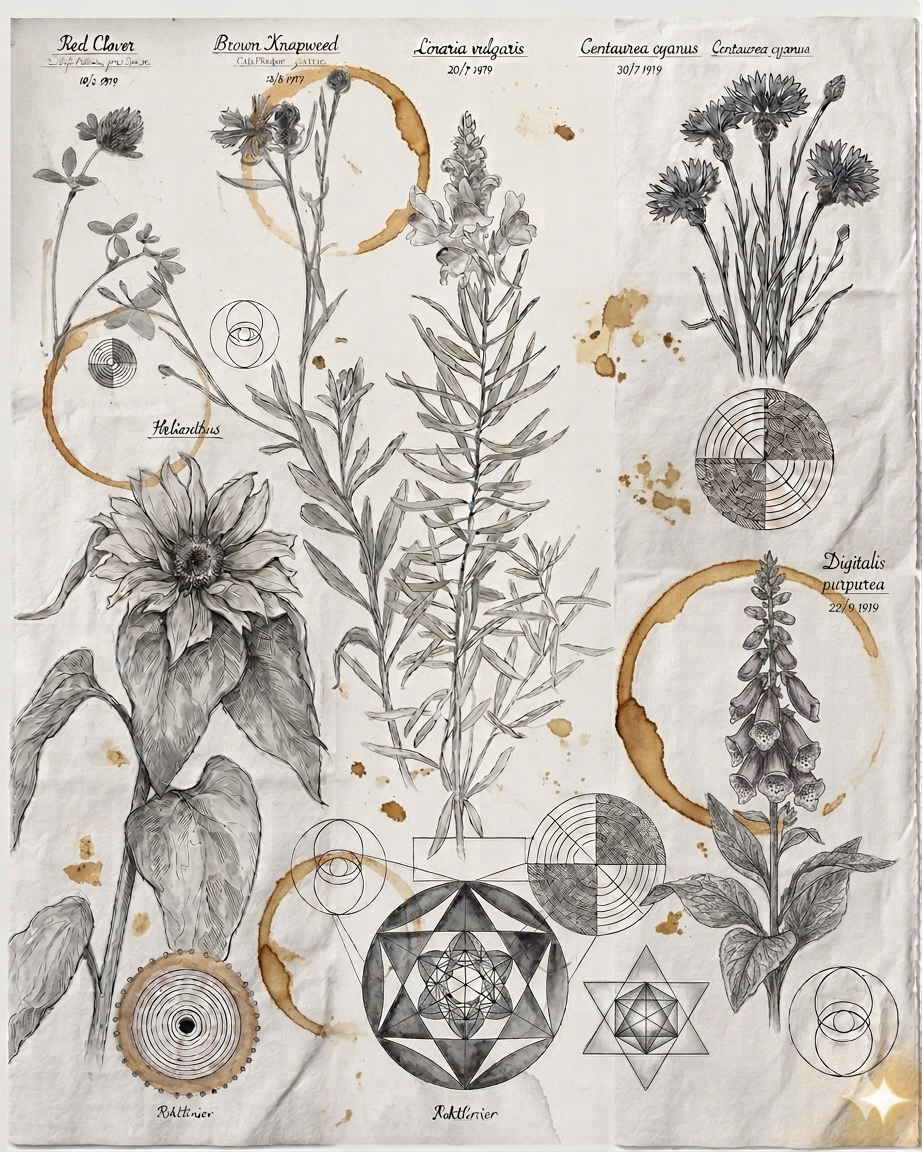
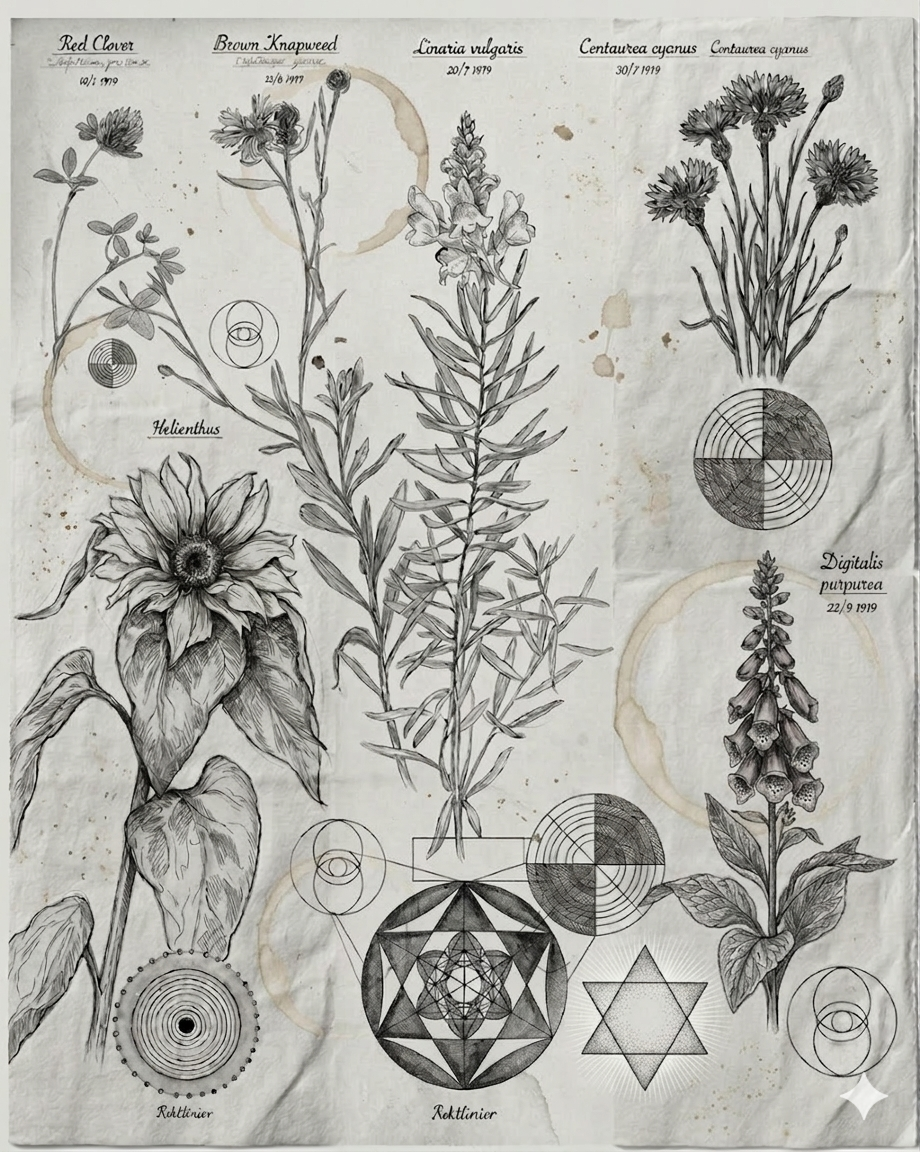
Fix sunflower loading paths, update hero B&W image
- Use absolute paths (/justsunflower-bw.png) so images load from /writing/slug URLs
- Replace hero-bw image with updated botanical illustration

diff --git a/blog-post.html b/blog-post.html
@@ -197,8 +197,8 @@ hr{border:none;border-top:1px solid #e8e4df;margin:72px 0 0;}
 
 <div class="loading-wrap" id="loadingWrap">
   <div class="sunflower-stack">
-    <img src="justsunflower-bw.png" alt="">
-    <img class="sf-color" src="justsunflower-color.png" alt="">
+    <img src="/justsunflower-bw.png" alt="">
+    <img class="sf-color" src="/justsunflower-color.png" alt="">
   </div>
   <div class="loading-text">Loading...</div>
 </div>
